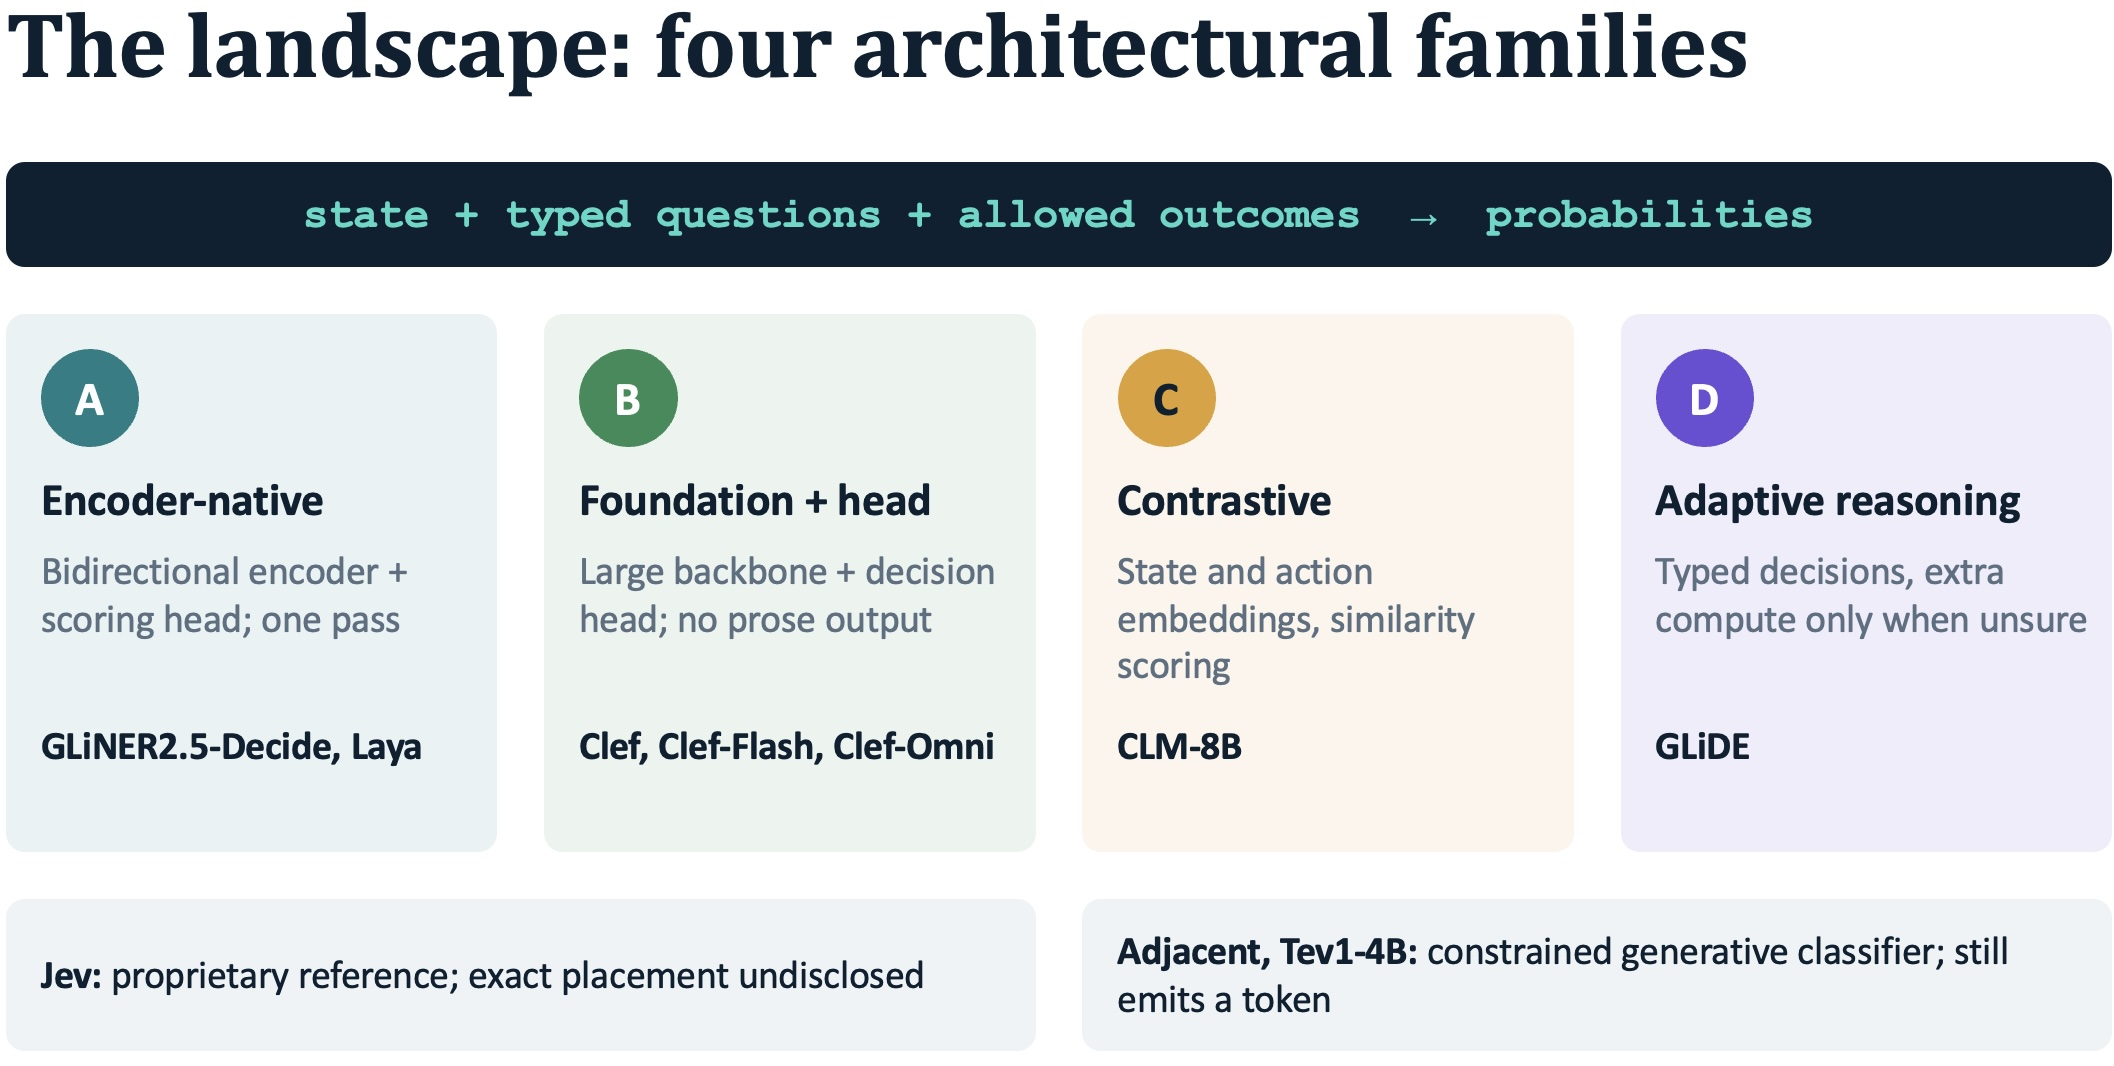
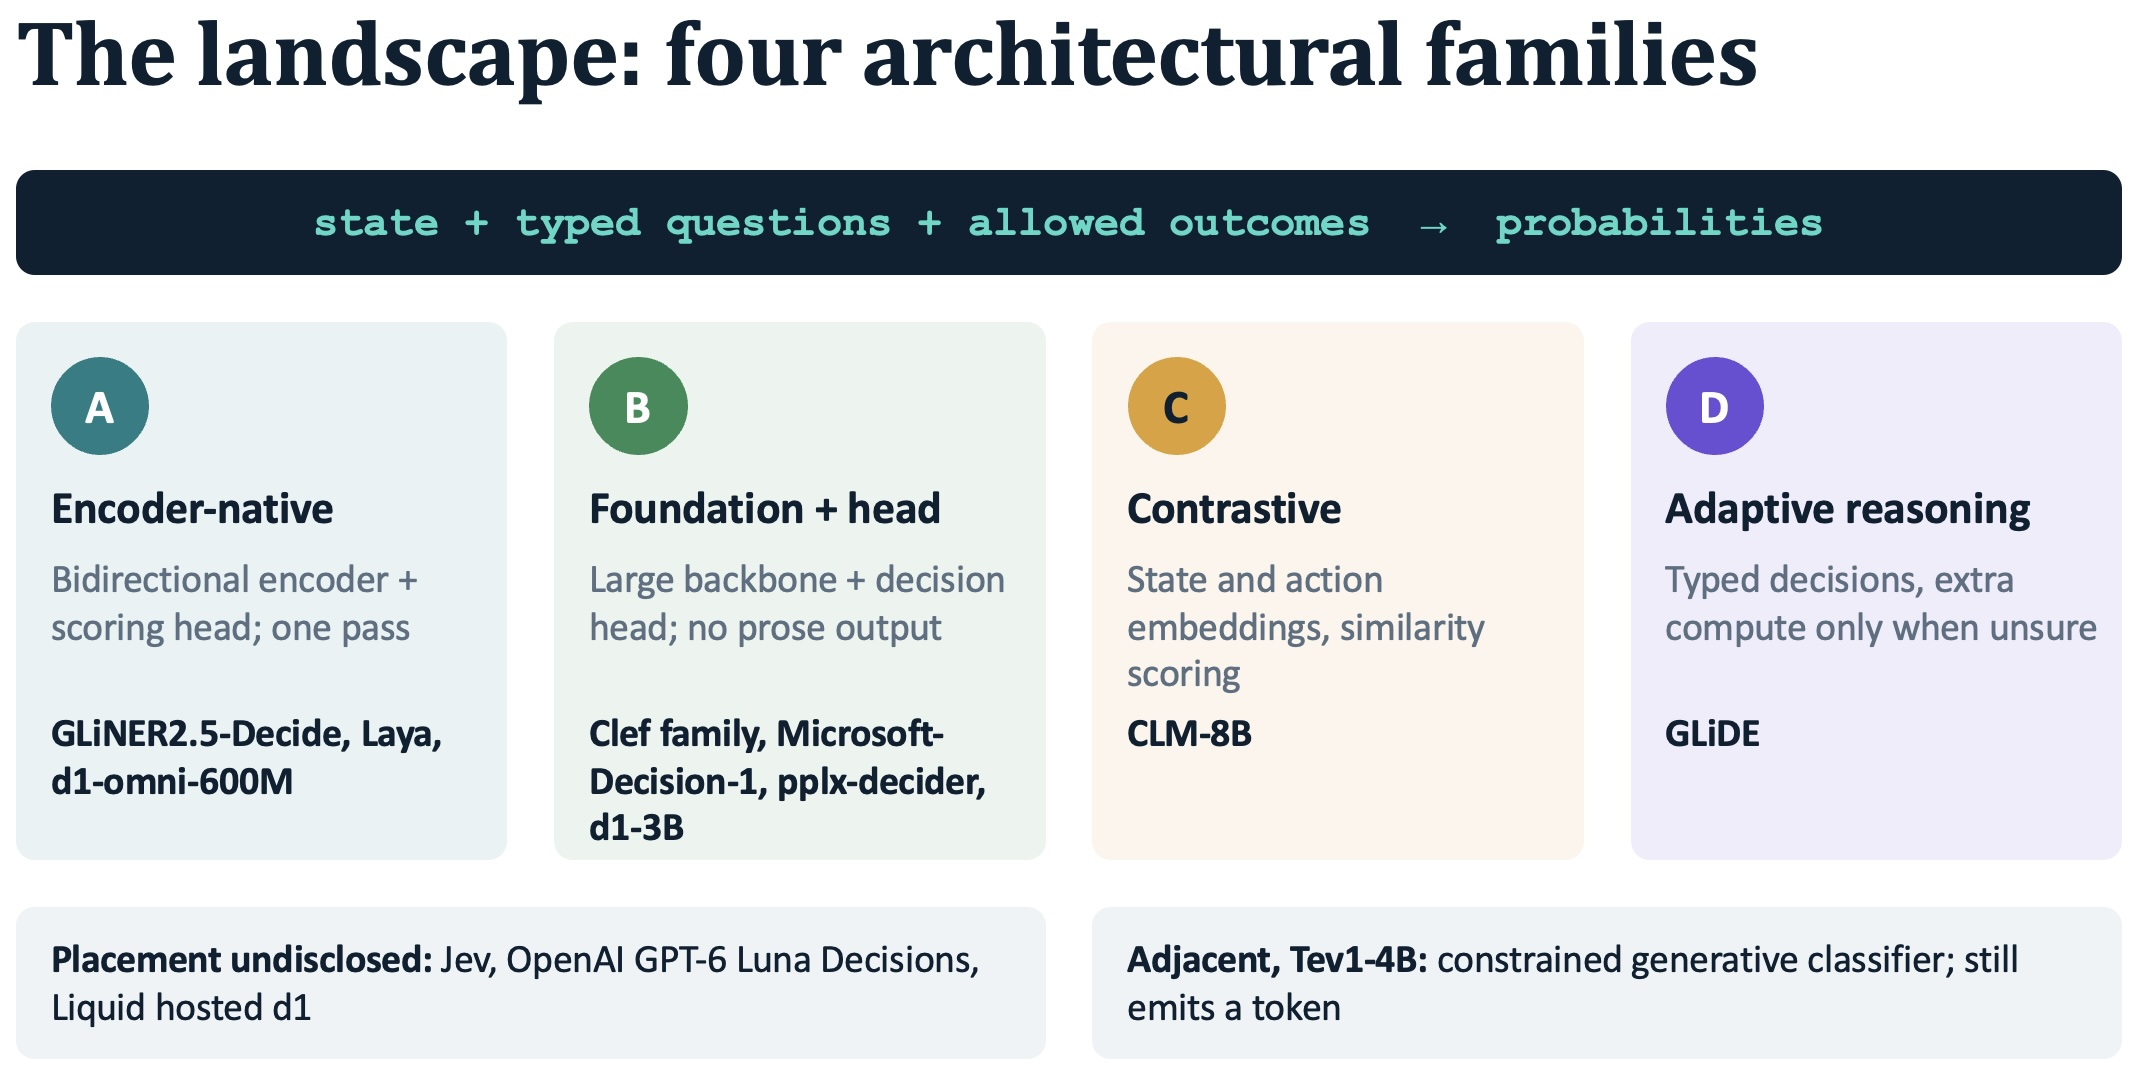
add decision model post

diff --git a/_posts/2026-10-10-Decision-Models-Beyond-Text-Generation.md b/_posts/2026-10-10-Decision-Models-Beyond-Text-Generation.md
@@ -8,7 +8,7 @@ Over the past few years, most of us have used large language models (LLMs) for a
 
 This works, but it is wasteful. For a decision like "low, medium, high, or critical", the application does not need an essay. It needs one label and, ideally, a probability it can trust. Generating that answer token-by-token through a frontier model costs latency, money, and reliability, and the "confidence" an LLM writes in text is generally not a calibrated probability.
 
-On September 15, 2026, TypeSafe released **Jev**, its first public "System One Model", and the idea of a **decision model** suddenly became a category. Within a few weeks, Cloudflare, Fastino, Together, and others released open and hosted models around the same interface, and llama.cpp added native support. In this post I summarize what a decision model is, how Jev works, how it compares with LLMs and traditional ML classifiers, where it is useful, and how the ecosystem is shaping up as of October 2026.
+On September 15, 2026, TypeSafe released **Jev**, its first public "System One Model", and the idea of a **decision model** suddenly became a category. Within a few weeks, Cloudflare, Fastino, Together, and others released open and hosted models around the same interface, and llama.cpp added native support. Then, between October 1 and 9, Perplexity, Liquid AI, OpenAI, and Microsoft each shipped decision-model products, so this is no longer a startup-only category. In this post I summarize what a decision model is, how Jev works, how it compares with LLMs and traditional ML classifiers, where it is useful, and how the ecosystem is shaping up as of October 2026.
 
 ---
 
@@ -51,7 +51,7 @@ The innovation is not classification itself, which is decades old. It is the com
 
 TypeSafe describes the Jev stack as having three components:
 
-- A **new model architecture** (Transformer-based model family)
+- A **new proprietary model architecture**
 - A **parallel sampler** for efficient inference
 - A training method called **Reinforcement Learning for Calibrated Decisions (RLCD)**
 
@@ -61,7 +61,9 @@ Jev intentionally gives up open-ended string generation. In exchange, it returns
 
 **How Jev Works: Shared State and Typed Questions**
 
-The API accepts a shared **state**, a **model** name, and a dictionary of named **questions**. All questions refer to the same state, and different question types can be mixed in one request. There are three question primitives:
+The API accepts a shared **state**, a **model** name, and a dictionary of named **questions**. All questions refer to the same state, and different question types can be mixed in one request. The original Jev interface centers on three decision primitives: Choice, Score, and Noul. TypeSafe's current API also exposes experimental image/Box capabilities.
+
+The three question primitives are:
 
 **1. Choice** — mutually exclusive multi-class classification
 
@@ -443,13 +445,13 @@ Do not assume 0.5 is the right threshold. The UNFAIR-ToS result above shows how 
 
 ## The Current Decision Model Landscape
 
-The category has grown quickly since Jev's launch. Projects now share a common product idea, bounded semantic decisions with probabilities, while implementing it with very different model families. "Decision model" is becoming an **interface and systems category** more than a single architecture. The emerging convention is:
+The category has grown quickly since Jev's launch. Between October 1 and 9 alone, Perplexity, Liquid AI, OpenAI, and Microsoft each shipped decision-model products. Projects now share a common product idea, bounded semantic decisions with probabilities, while implementing it with very different model families. "Decision model" is becoming an **interface and systems category** more than a single architecture. The emerging convention is:
 
 ```
 state + typed questions + allowed outcomes → probabilities
 ```
 
-increasingly exposed through a Jev/System One-compatible `/v1/systemone` API.
+exposed through a small number of compatible APIs, most commonly the Jev/System One-style `/v1/systemone` endpoint, with OpenAI's `/v1/decisions` as a second dialect.
 
 ![pic 4](/images/decision-model-4.jpg "pic 4")
 
@@ -461,7 +463,7 @@ increasingly exposed through a Jev/System One-compatible `/v1/systemone` API.
 state + questions → bidirectional encoder → classification / schema head
 ```
 
-These score labels directly in one forward pass. They are the smallest and most CPU-friendly members of the landscape, a good fit for high-volume classification, support routing, and on-prem or air-gapped workloads. Examples: **GLiNER2.5-Decide**, **Laya**.
+These score labels directly in one forward pass. They are the smallest and most CPU-friendly members of the landscape, a good fit for high-volume classification, support routing, and on-prem or air-gapped workloads. Examples: **GLiNER2.5-Decide**, **Laya**, and Liquid AI's experimental **d1-omni-600M** (encoder-based, with vision and audio encoders).
 
 **B. Foundation model + dedicated decision head**
 
@@ -469,7 +471,7 @@ These score labels directly in one forward pass. They are the smallest and most 
 state + questions → large pretrained backbone → joint schema / decision head
 ```
 
-A large backbone supplies broad semantic and world knowledge, and a separate head scores only the permitted options instead of generating prose. This brings long context and multimodal potential. Examples: Cloudflare **Clef**, **Clef-Flash**, **Clef-Omni**.
+A large backbone supplies broad semantic and world knowledge, and a separate head scores only the permitted options instead of generating prose. This brings long context and multimodal potential. Examples: Cloudflare **Clef**, **Clef-Flash**, **Clef-Omni**, **Microsoft-Decision-1**, Perplexity **pplx-decider-v1.1-27b**, and Liquid AI **d1-3B**. The last three are placed here by backbone, since their head designs are not equally documented.
 
 **C. Contrastive state/action models**
 
@@ -491,6 +493,10 @@ These keep a typed decision interface but spend additional compute when the firs
 
 Together's **Tev1-4B** is Jev-inspired but keeps an ordinary autoregressive language-model output head to emit a choice token. It is useful and easy to reproduce with existing LLM tooling, but architecturally it is still a generative model, so I do not count it as a fifth core family.
 
+**Hosted, placement not public**
+
+Some products expose a typed decision API but do not disclose enough about the model to place it in a family: TypeSafe **Jev**, OpenAI **GPT-6 Luna Decisions**, and Liquid AI's hosted **d1**. Treat them as black-box decision services and evaluate them on behavior.
+
 **Notable implementations**
 
 | Model | Organization | Architecture / Scale | Modalities | Deployment | Best-fit role |
@@ -504,6 +510,10 @@ Together's **Tev1-4B** is Jev-inspired but keeps an ordinary autoregressive lang
 | CLM-8B | Contrastive-LM | Frozen Qwen3-8B encoders + ~20M projection heads | Primarily text | Apache 2.0; self-hosted | Agent routing, tool selection, ranking, best-of-N verification |
 | GLiDE | Fastino | Adaptive "thinking decision model"; not publicly detailed | Structured / text | Hosted API | Harder multi-hop choices, large action spaces |
 | Tev1-4B | Together | Qwen3.5-4B + LoRA/SFT, ordinary LM head | Text | Open recipe / checkpoint | Reproduction and custom fine-tuning |
+| GPT-6 Luna Decisions | OpenAI | Built on gpt-6-luna; architecture undisclosed. `predicate` / `choice` / `score` questions with probability and confidence fields | Text, images | Hosted `/v1/decisions` API; $0.10 / M input tokens | Frontier-lab hosted comparator for Jev (released Oct 6) |
+| Microsoft-Decision-1 | Microsoft | Qwen3.5-9B post-trained for single-pass decision scoring; head design not detailed | Text only; ~32K context (reported) | Hosted (Microsoft Foundry, OpenRouter); weights not distributed | Managed routing, gating, prioritization, rubric scoring (released Oct 8–9); Microsoft excludes sole-model use for consequential decisions about people |
+| d1 / d1-3B / d1-omni-600M | Liquid AI | Hosted d1 undisclosed; d1-3B ~3.1B on LFM2.5-VL-3B; d1-omni-600M (experimental) on LFM2.5-Encoder-350M + vision/audio encoders | d1-3B: text, images. d1-omni-600M: text with images or audio | Hosted d1; open weights for d1-3B and d1-omni-600M under LFM Open License v1.0 (not Apache 2.0) | Edge and on-device multimodal decisions |
+| pplx-decider-v1.1-27b | Perplexity | Qwen3.8-27B with LM head replaced by a 255-answer-code readout; noncausal attention in v1.1 | Text, JSON, images | Apache 2.0; Perplexity API, OpenRouter, or self-hosted on SGLang via `/v1/systemone` | Wide option sets (choice up to 255, score up to 10 levels) |
 
 **Tradeoffs by family**
 
@@ -520,10 +530,13 @@ Together's **Tev1-4B** is Jev-inspired but keeps an ordinary autoregressive lang
 - **API convergence** — Cloudflare Clef and CLM expose Jev/System One-compatible request shapes, which lowers the switching cost between providers.
 - **Local runtime support** — llama.cpp added a `/v1/systemone` endpoint for supported decision models in October 2026, a sign the interface is moving beyond a single vendor.
 - **Multimodality** — Clef-Omni makes decisions directly on text, image, audio, and video, so "decision model" no longer means only text classification.
+- **Frontier labs and platforms enter** — OpenAI's Decisions API (Oct 6) and Microsoft-Decision-1 (Oct 8–9) arrived within days of each other, alongside Perplexity and Liquid AI.
+- **Two request dialects, one vocabulary** — Jev and Perplexity use `noul` / `choice` / `score` (and `/v1/systemone` on SGLang), while OpenAI uses `predicate` / `choice` / `score` on `/v1/decisions`. Gateways such as Vercel AI Gateway already serve both Jev and OpenAI decision models.
+- **Edge and on-device decisions** — Liquid AI's d1-3B and d1-omni-600M target edge hardware, with a vendor-reported ~8 ms per short question on an RTX 4090 and 16–50 ms on NVIDIA Jetson devices.
 
 **A practical benchmark set for enterprise evaluation**
 
-Rather than picking a winner from vendor benchmarks, compare models on the same private workload and thresholds. A useful baseline:
+Rather than picking a winner from vendor benchmarks, compare models on the same private workload and thresholds. A useful baseline, with optional additions for the October entrants:
 
 ```
 Jev               → hosted proprietary reference
@@ -532,6 +545,17 @@ GLiNER2.5-Decide  → compact local / CPU-friendly baseline
 CLM-8B            → agent/action-ranking specialist
 GLiDE (optional)  → harder decisions that may benefit from adaptive reasoning
 ```
+
+Optional additions:
+
+```
+Microsoft-Decision-1  → head-to-head with Clef-Flash (both Qwen3.5-9B-based)
+pplx-decider-v1.1-27b → head-to-head with Clef (both Qwen3.8-27B-based); wide option sets up to 255
+d1-3B / d1-omni-600M  → edge and multimodal tier, beside GLiNER2.5-Decide and Laya
+GPT-6 Luna Decisions  → frontier-lab hosted comparator against Jev
+```
+
+Vendors such as Liquid AI and Perplexity publish their own "Decision Index" scores on vendor-chosen comparison sets, so those numbers are a reason to test, not a ranking.
 
 Measure task accuracy, per-class precision/recall, calibration and Brier score, abstention quality, p50/p95 latency, throughput, infrastructure cost, context limits, privacy requirements, and behavior under taxonomy changes. For routing or authorization, evaluate the full application loss function, not model accuracy alone.
 
@@ -572,7 +596,7 @@ Key takeaways:
 - It is **schema-safe, not truth-safe**: it cannot invent a label, but it can still pick the wrong one.
 - **Calibration and threshold tuning** are what turn probabilities into reliable selective automation.
 - The best architecture is **layered**: LLMs reason and write, decision models judge, deterministic code holds authority, and humans handle the uncertain and irreversible.
-- Jev started the category, but "decision model" is now an **ecosystem and an interface** (`/v1/systemone`) spanning encoder-native, foundation-plus-head, contrastive, and adaptive-reasoning designs.
+- Jev started the category, but it is now one member of a fast-forming **ecosystem**, reinforced by October entries from OpenAI, Microsoft, Liquid AI, and Perplexity. The interface (`/v1/systemone`, plus OpenAI's `/v1/decisions`) spans encoder-native, foundation-plus-head, contrastive, and adaptive-reasoning designs.
 
 This space is very new and moving fast. Vendor benchmarks are a starting point, but always re-benchmark candidate models on your own workloads before adopting them in production.
 
@@ -590,3 +614,7 @@ This space is very new and moving fast. Vendor benchmarks are a starting point, 
 - [Contrastive-LM — CLM](https://github.com/Contrastive-LM/CLM)
 - [Together Computer — Tev1](https://github.com/togethercomputer/tev1)
 - [llama.cpp / GGML — Decision Models in llama.cpp](https://huggingface.co/blog/ggml-org/decision-models-in-llamacpp)
+- [OpenAI Developers — Decisions API guide](https://developers.openai.com/api/docs/guides/decisions)
+- [Microsoft-Decision-1 — secondary summary](https://www.productbuilder.net/models/microsoft-decision-1)
+- [Liquid AI — d1-3B model card](https://huggingface.co/LiquidAI/d1-3b)
+- [Perplexity pplx-decider-v1.1-27b — SGLang cookbook (secondary)](https://docs.sglang.io/cookbook/autoregressive/Perplexity/PPLX-Decider-v1.1-27B)
